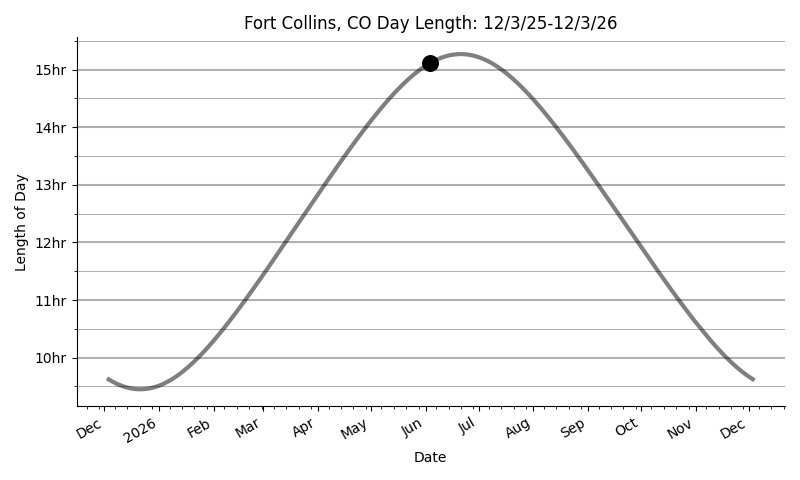
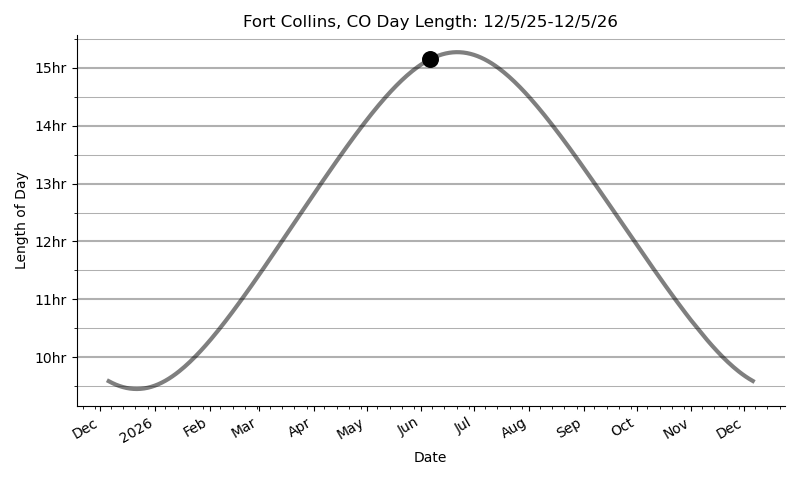
fix daylength?

diff --git a/daylength.py b/daylength.py
@@ -19,16 +19,18 @@ import matplotlib.ticker as ticker
 
 
 
-def daylength(latitude,longitude,elevation,timezone_str,city_name):
+def daylength(latitude,longitude,elevation,timezone,city_name):
     observer = Observer(latitude, longitude, elevation)
-    timezone = pytz.timezone(timezone_str)
-    now = datetime.now(timezone)
+    timezone = pytz.timezone(timezone)
+    now = datetime.now(tz=timezone)
     
     df = pd.DataFrame()
-    df['Date'] = pd.date_range(start = now - relativedelta(months=6,),
-                               end =  now + relativedelta(months=6),
-                  tz = timezone,
-                  freq = 'D')
+    start = now - relativedelta(months=6)
+    end =  now + relativedelta(months=6)
+    df['Date'] = pd.date_range(start = start,
+                               end =  end,
+                               tz = timezone,
+                               freq = 'D')
     
     df['Today'] = np.where(df['Date'].dt.strftime('%Y-%m-%d')==now.strftime('%Y-%m-%d'),True,False)
     